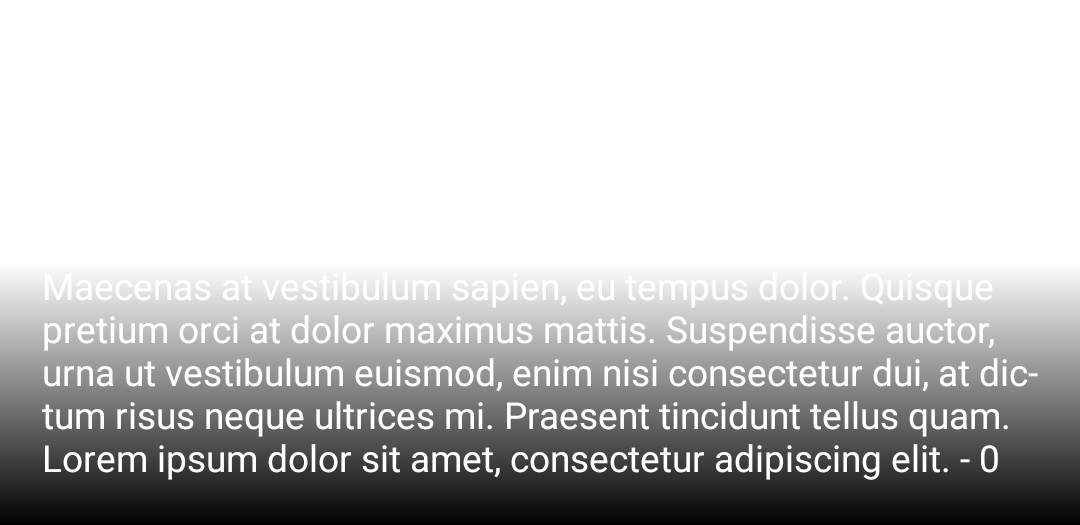
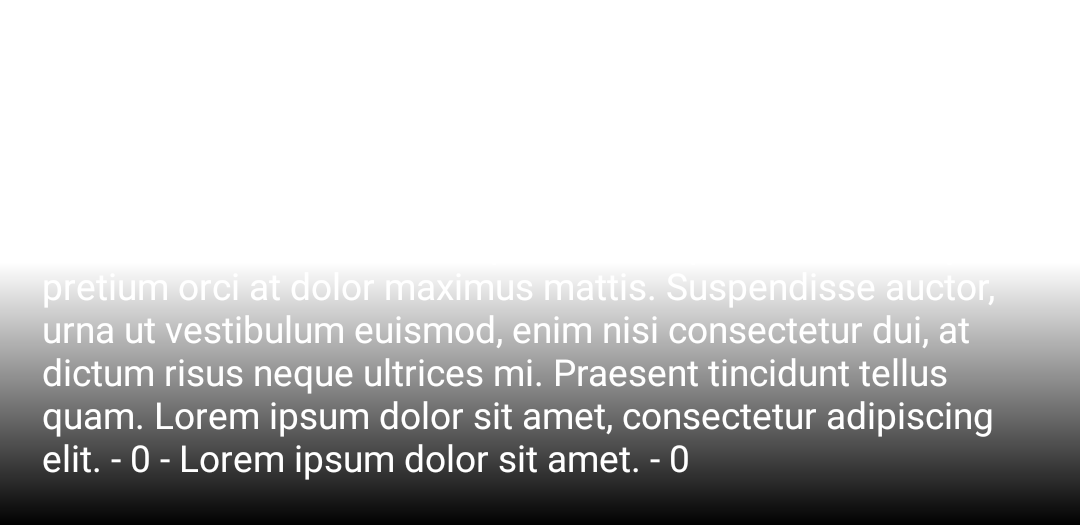
Added tests for superHeroes team

Changed region(s): [[0.0306, 0.6095, 0.9778, 0.9143], [0.3361, 0.5486, 0.9167, 0.579], [0.0306, 0.5486, 0.3056, 0.579]]

diff --git a/app/src/androidTest/java/com/karumi/ui/view/SuperHeroViewHolderTest.kt b/app/src/androidTest/java/com/karumi/ui/view/SuperHeroViewHolderTest.kt
@@ -83,6 +83,16 @@ class SuperHeroViewHolderTest : ScreenshotTest {
         compareScreenshot(holder, R.dimen.super_hero_row_height)
     }
 
+    @Test
+    fun showsAvengerWithVeryLongNameAndShortTeam() {
+        val superHero = givenASuperHeroWithNameLength(isAvenger = true, nameLength = TextLength.VERY_LONG)
+        val holder = givenASuperHeroViewHolder()
+
+        holder.render(superHero)
+
+        compareScreenshot(holder, R.dimen.super_hero_row_height)
+    }
+
     private fun givenASuperHeroViewHolder(): SuperHeroViewHolder {
         val context = getInstrumentation().targetContext
         val inflater = LayoutInflater.from(context)
@@ -93,29 +103,19 @@ class SuperHeroViewHolderTest : ScreenshotTest {
         )
     }
 
-    private fun givenASuperHeroWithNameLength(isAvenger: Boolean = false, nameLength: TextLength): SuperHero {
+    private fun givenASuperHeroWithNameLength(isAvenger: Boolean = false,
+                                              nameLength: TextLength,
+                                              teamLength: TextLength = TextLength.NORMAL): SuperHero {
         val superHeroName = getTestTextByLength(nameLength)
         val superHeroDescription = "Description Super Hero"
-        val isAvenger = false
-        return givenASuperHero(superHeroName, superHeroDescription, isAvenger)
-    }
-
-    private fun givenASuperHeroWithALongName(): SuperHero {
-        val superHeroName = """
-            |Lorem ipsum dolor sit amet, consectetur adipiscing elit, sed do eiusmod tempor
-            |incididunt ut labore et dolore magna aliqua. Ut enim ad minim veniam, quis nostrud exercitation
-            |ullamco laboris nisi ut aliquip ex ea commodo consequat. Duis aute irure dolor in reprehenderit in
-            |voluptate velit esse cillum dolore eu fugiat nulla pariatur. Excepteur sint occaecat cupidatat non
-            |proident, sunt in culpa qui officia deserunt mollit anim id est laborum.
-            |""".trimMargin()
-        val superHeroDescription = "Description Super Hero"
-        val isAvenger = false
-        return givenASuperHero(superHeroName, superHeroDescription, isAvenger)
+        val superHeroTeam = getTestTextByLength(teamLength)
+        return givenASuperHero(superHeroName, superHeroDescription, isAvenger, superHeroTeam)
     }
 
     private fun givenASuperHero(
             superHeroName: String = "Super Hero Name",
             superHeroDescription: String = "Super Hero Description",
-            isAvenger: Boolean = false
-    ): SuperHero = SuperHero(superHeroName, null, isAvenger, superHeroDescription, null)
+            isAvenger: Boolean = false,
+            superHeroTeam: String? = null
+    ): SuperHero = SuperHero(superHeroName, null, isAvenger, superHeroDescription, superHeroTeam)
 }
